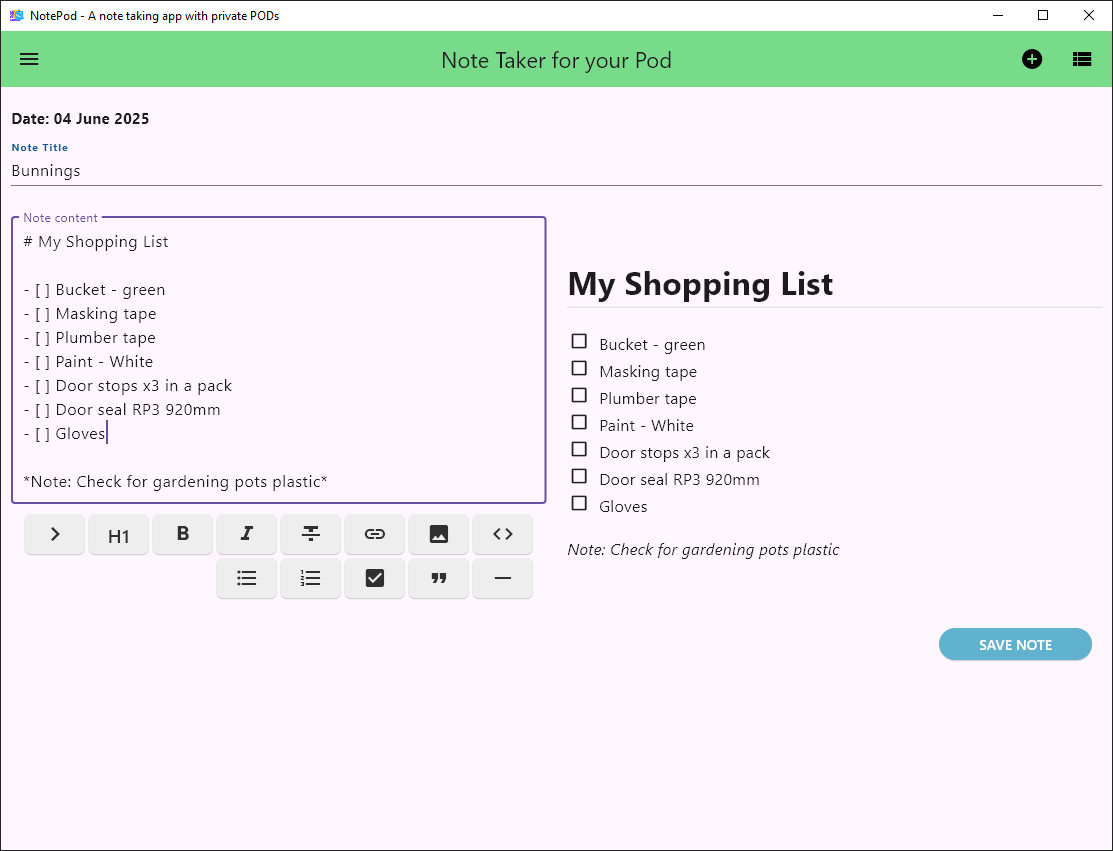
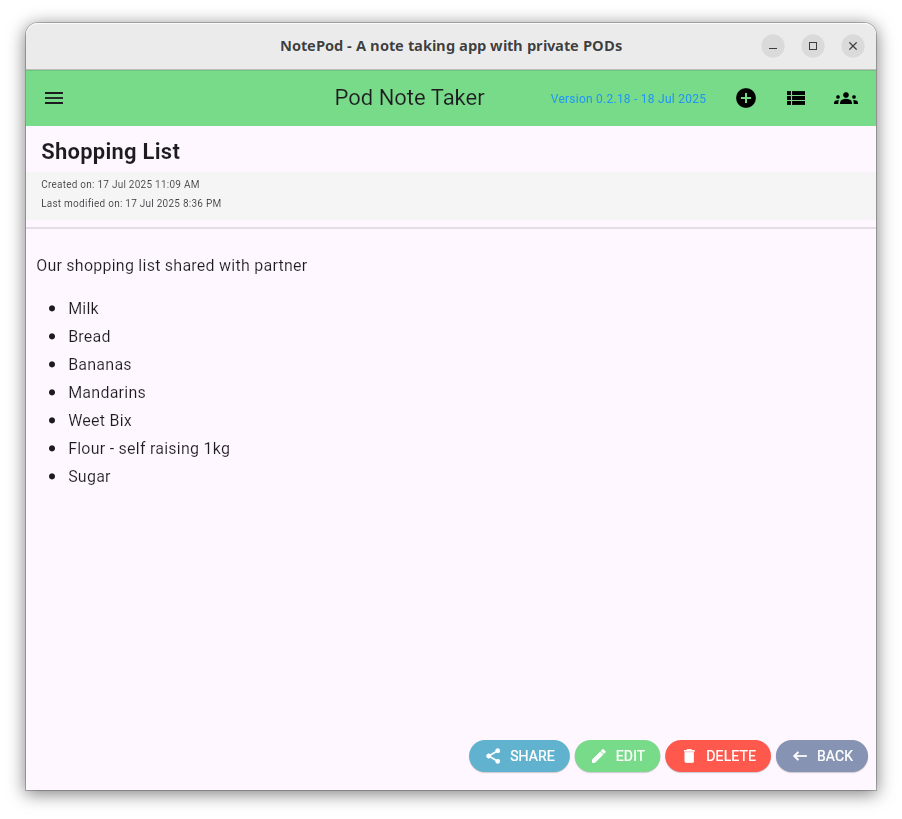
Updated screenshots

diff --git a/README.md b/README.md
@@ -2,7 +2,7 @@
 
 **An ANU Software Innovation Institute demonstrator for your Data Vault**.
 
-*Time-stamp: <Friday 2025-07-18 09:45:55 +1000 Graham Williams>*
+*Time-stamp: <Friday 2025-07-18 09:48:32 +1000 Graham Williams>*
 
 *Authors: Anushka Vidanage, Graham Williams, Jessica Moore*
 
@@ -63,14 +63,14 @@ even easier to build your first Pods-based Flutter app.
 
 **Shopping List**
 
-<div align="center">
-	<img
-	src="https://raw.githubusercontent.com/anusii/notepod/dev/images/shopping_android.png"
-	alt="Shopping List" width="100"/>
+<div style="display: flex; justify-content: center; gap: 80px;">
 	<img
 	src="https://raw.githubusercontent.com/anusii/notepod/dev/images/shopping.png"
 	alt="Shopping List" width="400"/>
 
+	<img
+	src="https://raw.githubusercontent.com/anusii/notepod/dev/images/shopping_android.png"
+	alt="Shopping List" width="200"/>
 </div>
 
 ## Obtaining a Pod
